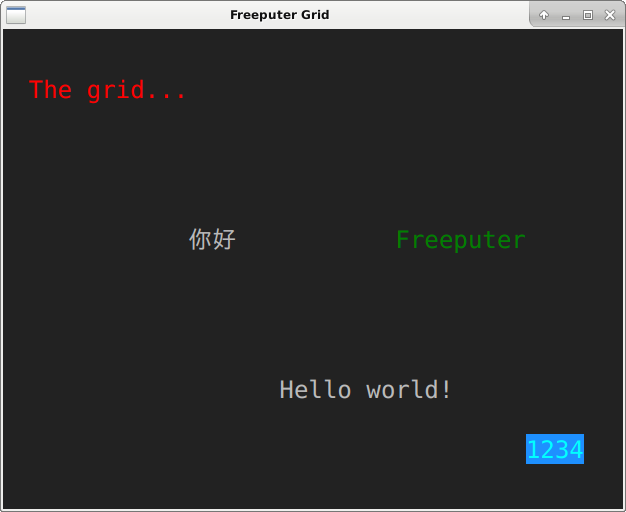
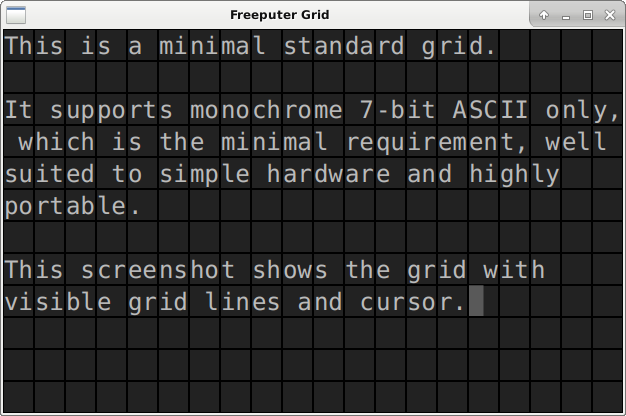
Standard grid size reduced to 40 rows x 12 columns.
After careful consideration, it was decided that the previous size of 40 rows x 15 columns was excessive for a standard minimal requirement, particularly in the light of the need to be easily portable to small devices, simple hardware and mobile devices. The new size very conveniently requires less than half a kilobyte of RAM to represent the state of a minimal 7-bit ASCII monochrome standard grid and very conveniently is exactly a quarter the size of a standard 80x24 terminal emulator.

Changed region(s): [[0.0, 0.0, 1.0, 1.0]]

diff --git a/pre-alpha/pre-alpha1.1/grid/README.html b/pre-alpha/pre-alpha1.1/grid/README.html
@@ -8,7 +8,7 @@
 <ul>
 <li>it uses a fixed-width font;</li>
 <li>it can display all 7-bit ASCII characters;</li>
-<li>its logical size is exactly 40 columns by 15 rows (600 cells);</li>
+<li>its logical size is exactly 40 columns by 12 rows (480 cells);</li>
 <li>column is specified by a single byte;</li>
 <li>row is specified by a single byte;</li>
 <li>a character is displayed by specifying column, row, then UTF-8 code;</li>
@@ -17,7 +17,7 @@
 <li>full-width characters (such as '好') occupy exactly 2 columns (2 cells);</li>
 <li>full-width characters should only be added to odd-numbered columns;</li>
 <li>columns are numbered 1 to 40 (left to right);</li>
-<li>rows are numbered 1 to 15 (top to bottom);</li>
+<li>rows are numbered 1 to 12 (top to bottom);</li>
 <li>column 0 is reserved for 'zero commands';</li>
 <li>row 0 is reserved for 'zero commands';</li>
 <li>'zero commands' exist (e.g. clear screen: row=0, column=0, char=0);</li>
@@ -34,24 +34,20 @@
 <h2 id="screenshots">Screenshots</h2>
 <p>These screenshots are of grids implemented in JavaFX (see <code>Grid.java</code>) and running on Linux.</p>
 <div class="figure">
-<img src="img/grid.png" title="A standard grid with Unicode and colour support" alt="A standard grid with Unicode and colour support" />
-<p class="caption">A standard grid with Unicode and colour support</p>
+<img src="img/grid.png" title="A minimal standard grid (with gridlines visible)" alt="A minimal standard grid (with gridlines visible)" />
+<p class="caption">A minimal standard grid (with gridlines visible)</p>
 </div>
 <div class="figure">
-<img src="img/grid3.png" title="A monochrome 7-bit ASCII standard grid" alt="A monochrome 7-bit ASCII standard grid" />
-<p class="caption">A monochrome 7-bit ASCII standard grid</p>
+<img src="img/grid2.png" title="A minimal standard grid (with gridlines hidden)" alt="A minimal standard grid (with gridlines hidden)" />
+<p class="caption">A minimal standard grid (with gridlines hidden)</p>
 </div>
 <div class="figure">
-<img src="img/grid2.png" title="A monochrome 7-bit ASCII standard grid with visible gridlines and cursor" alt="A monochrome 7-bit ASCII standard grid with visible gridlines and cursor" />
-<p class="caption">A monochrome 7-bit ASCII standard grid with visible gridlines and cursor</p>
-</div>
-<div class="figure">
-<img src="img/grid4.png" title="Portion of a grid showing alignment of narrow and wide characters" alt="Portion of a grid showing alignment of narrow and wide characters" />
-<p class="caption">Portion of a grid showing alignment of narrow and wide characters</p>
+<img src="img/grid4.png" title="A maximal standard grid with Unicode and colour support" alt="A maximal standard grid with Unicode and colour support" />
+<p class="caption">A maximal standard grid with Unicode and colour support</p>
 </div>
 <h2 id="non-standard-grids">Non-standard Grids</h2>
 <p>The most common form of non-standard grid is that which is in every way the same as a standard grid except that its logical size is smaller or larger, up to a convenient maximum of 255 columns by 255 rows (65025 cells).</p>
-<p>The standard grid of 40 columns by 15 rows is the recommended default user interface for Freeputer. This size is small enough to be easy to implement on simple devices without requiring an operating system, and small enough to be useful on mobile devices, yet large enough to be useful on powerful desktop computers and large enough to be used for some text editing and some software development. This size has also been carefully chosen so as to encourage simplicity but without being simplistic. Please remember that the standard grid is not intended to be the only user interface for Freeputer but rather the default user interface. It is expected to be normal to have multiple user interfaces connected to a Freeputer instance simultaneously; for example, you might issue commands in the standard grid that drive a highly sophisticated graphical user interface in a web browser or in a window using hardware graphics acceleration, all connected to your Freeputer instance.</p>
+<p>The standard grid of 40 columns by 12 rows is the recommended default user interface for Freeputer. This size is small enough to be easy to implement on simple devices without requiring an operating system, and small enough to be useful on mobile devices, yet large enough to be useful on powerful desktop computers and large enough to be used for some text editing and some software development. This size has also been carefully chosen so as to encourage simplicity but without being simplistic. Please remember that the standard grid is not intended to be the only user interface for Freeputer but rather the default user interface. It is expected to be normal to have multiple user interfaces connected to a Freeputer instance simultaneously; for example, you might issue commands in the standard grid that drive a highly sophisticated graphical user interface in a web browser or in a window using hardware graphics acceleration, all connected to your Freeputer instance.</p>
 <p>For Freeputer, it is strongly recommended that programs written for non-standard grids should also be usable on a standard grid.</p>
 <h2 id="beyond-freeputer">Beyond Freeputer</h2>
 <p>Grids are a much simpler, easier and more portable alternative to ncurses and ANSI terminal emulators for creating textual user interfaces and it is easy to use grids from any programming language, either locally or remotely.</p>
@@ -60,7 +56,7 @@
 <p>Copyright © Robert Gollagher 2016</p>
 <p>This document was written by Robert Gollagher.<br />
 This document was first published on 28 December 2016.<br />
-This document was last updated on 28 December 2016 at 11:17.<br />
+This document was last updated on 28 January 2017 at 15:13.<br />
 This document is licensed under a <a href="http://creativecommons.org/licenses/by-sa/4.0/">Creative Commons Attribution-ShareAlike 4.0 International License</a>.</p>
 <p>The official Freeputer website is <a href="http://www.freeputer.net">freeputer.net</a>.</p>
 <hr />

diff --git a/pre-alpha/pre-alpha1.1/grid/java/com/freeputer/ui/grid/javafx/Grid.java b/pre-alpha/pre-alpha1.1/grid/java/com/freeputer/ui/grid/javafx/Grid.java
@@ -7,8 +7,8 @@ License: GNU General Public License Version 3 or any later version
 Program: Grid.java, an early experimental Freeputer Grid implementation
 Author : Robert Gollagher  robert.gollagher@freeputer.net
 Created: 20161228
-Updated: 20161230-0014
-Version: pre-alpha-0.0.0.1
+Updated: 20170128-1445
+Version: pre-alpha-0.0.0.2
 
 WARNING: THIS IS PRE-ALPHA SOFTWARE. It is inherently experimental
 in nature, is likely to greatly change before alpha release or to never
@@ -67,7 +67,7 @@ import javafx.stage.Stage;
 public class Grid extends Application {
 
   public static final int STDGRID_COLS = 40;
-  public static final int STDGRID_ROWS = 15;
+  public static final int STDGRID_ROWS = 12;
   public static final int DEFAULT_FONT_SIZE = 24;
   public static final String DEFAULT_FONT_NAME = "Monospaced Regular";
   public static final boolean ENFORCE_MIN_TILE_BOUNDS = false;

diff --git a/pre-alpha/pre-alpha1.1/grid/README.md b/pre-alpha/pre-alpha1.1/grid/README.md
@@ -14,7 +14,7 @@ The mandatory characteristics of the standard grid are:
 
 - it uses a fixed-width font;
 - it can display all 7-bit ASCII characters;
-- its logical size is exactly 40 columns by 15 rows (600 cells);
+- its logical size is exactly 40 columns by 12 rows (480 cells);
 - column is specified by a single byte;
 - row is specified by a single byte;
 - a character is displayed by specifying column, row, then UTF-8 code;
@@ -23,7 +23,7 @@ The mandatory characteristics of the standard grid are:
 - full-width characters (such as '好') occupy exactly 2 columns (2 cells);
 - full-width characters should only be added to odd-numbered columns;
 - columns are numbered 1 to 40 (left to right);
-- rows are numbered 1 to 15 (top to bottom);
+- rows are numbered 1 to 12 (top to bottom);
 - column 0 is reserved for 'zero commands';
 - row 0 is reserved for 'zero commands';
 - 'zero commands' exist (e.g. clear screen: row=0, column=0, char=0);
@@ -42,19 +42,17 @@ Wherever reasonably possible, you should aim to make your programs usable even w
 
 These screenshots are of grids implemented in JavaFX (see `Grid.java`) and running on Linux.
 
-![A standard grid with Unicode and colour support](img/grid.png "A standard grid with Unicode and colour support")
+![A minimal standard grid (with gridlines visible)](img/grid.png "A minimal standard grid (with gridlines visible)")
 
-![A monochrome 7-bit ASCII standard grid](img/grid3.png "A monochrome 7-bit ASCII standard grid")
+![A minimal standard grid (with gridlines hidden)](img/grid2.png "A minimal standard grid (with gridlines hidden)")
 
-![A monochrome 7-bit ASCII standard grid with visible gridlines and cursor](img/grid2.png "A monochrome 7-bit ASCII standard grid with visible gridlines and cursor")
-
-![Portion of a grid showing alignment of narrow and wide characters](img/grid4.png "Portion of a grid showing alignment of narrow and wide characters")
+![A maximal standard grid with Unicode and colour support](img/grid4.png "A maximal standard grid with Unicode and colour support")
 
 ## Non-standard Grids
 
 The most common form of non-standard grid is that which is in every way the same as a standard grid except that its logical size is smaller or larger, up to a convenient maximum of 255 columns by 255 rows (65025 cells).
 
-The standard grid of 40 columns by 15 rows is the recommended default user interface for Freeputer. This size is small enough to be easy to implement on simple devices without requiring an operating system, and small enough to be useful on mobile devices, yet large enough to be useful on powerful desktop computers and large enough to be used for some text editing and some software development. This size has also been carefully chosen so as to encourage simplicity but without being simplistic. Please remember that the standard grid is not intended to be the only user interface for Freeputer but rather the default user interface. It is expected to be normal to have multiple user interfaces connected to a Freeputer instance simultaneously; for example, you might issue commands in the standard grid that drive a highly sophisticated graphical user interface in a web browser or in a window using hardware graphics acceleration, all connected to your Freeputer instance.
+The standard grid of 40 columns by 12 rows is the recommended default user interface for Freeputer. This size is small enough to be easy to implement on simple devices without requiring an operating system, and small enough to be useful on mobile devices, yet large enough to be useful on powerful desktop computers and large enough to be used for some text editing and some software development. This size has also been carefully chosen so as to encourage simplicity but without being simplistic. Please remember that the standard grid is not intended to be the only user interface for Freeputer but rather the default user interface. It is expected to be normal to have multiple user interfaces connected to a Freeputer instance simultaneously; for example, you might issue commands in the standard grid that drive a highly sophisticated graphical user interface in a web browser or in a window using hardware graphics acceleration, all connected to your Freeputer instance.
 
 For Freeputer, it is strongly recommended that programs written for non-standard grids should also be usable on a standard grid.
 
@@ -70,7 +68,7 @@ Copyright © Robert Gollagher 2016
 
 This document was written by Robert Gollagher.  
 This document was first published on 28 December 2016.  
-This document was last updated on 30 December 2016 at 03:12.  
+This document was last updated on 28 January 2017 at 15:13.  
 This document is licensed under a [Creative Commons Attribution-ShareAlike 4.0 International License](http://creativecommons.org/licenses/by-sa/4.0/).
 
 The official Freeputer website is [freeputer.net](http://www.freeputer.net).
